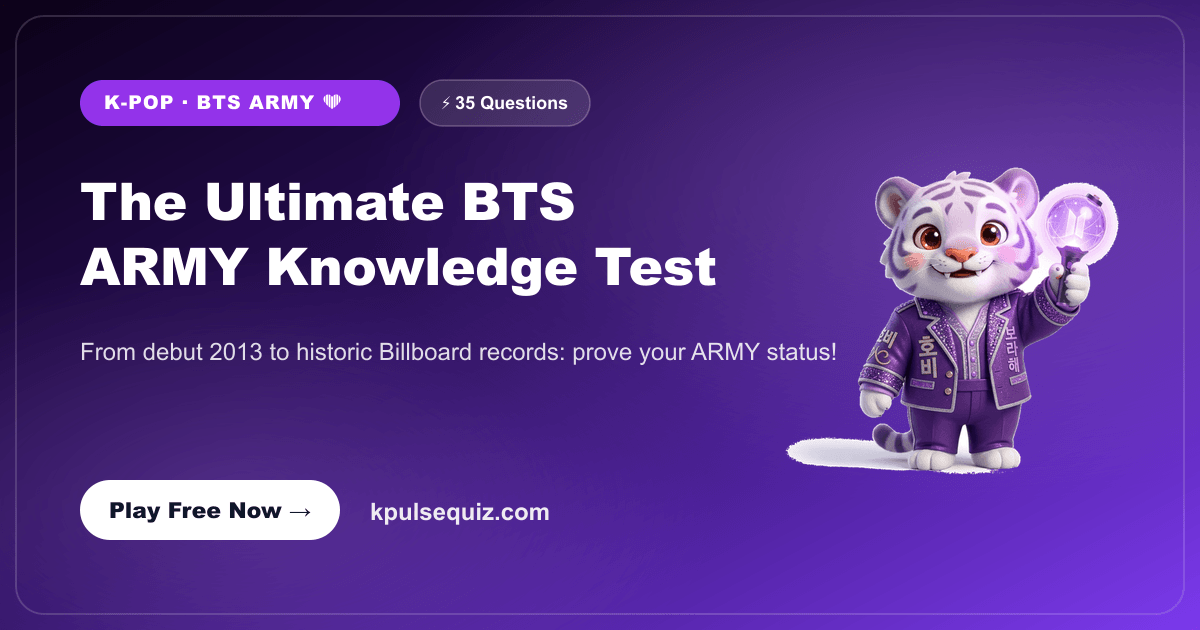
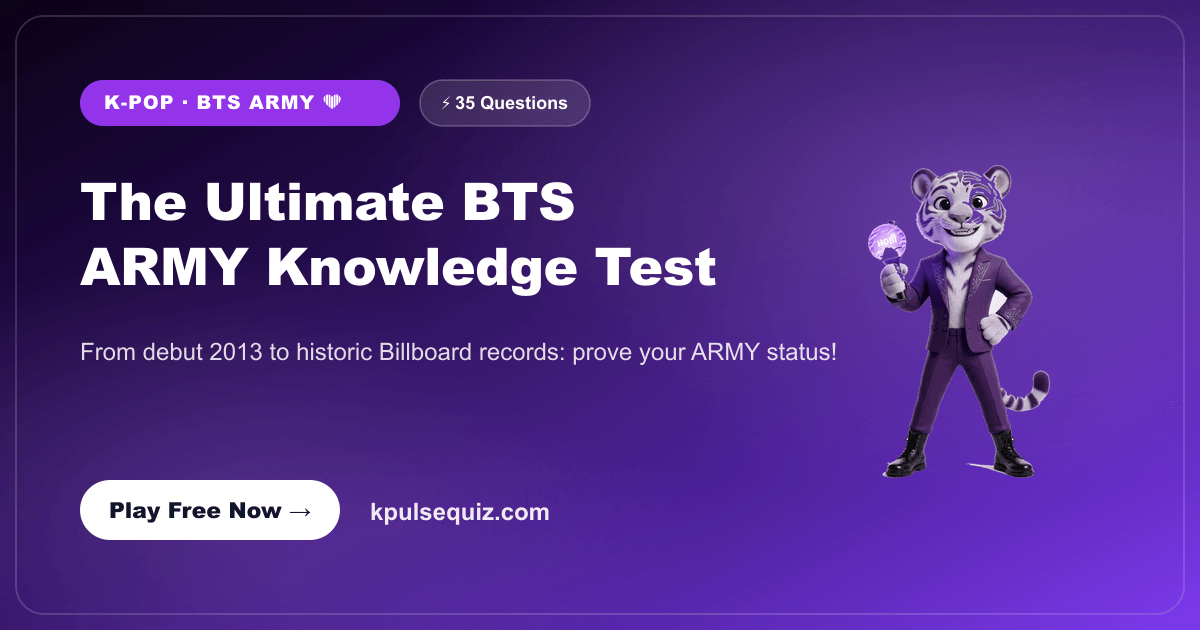
feat(mascot): upgrade Hobi (BTS, SKZ) to slender athletic idol proportions and add v2 cache-busting

Changed region(s): [[0.6475, 0.2413, 0.9558, 0.754]]

diff --git a/scripts/process-mascots.js b/scripts/process-mascots.js
@@ -12,14 +12,17 @@ const IMAGES = [
     src: 'C:/Users/USER/.gemini/antigravity/brain/b1576419-706f-4a54-8d0c-3708533ac48a/bomi_sister_cute_beret_1791419497211.jpg',
     name: 'bomi-blackpink',
     clearTop: 102, // Clear floating text header
+    threshold: 240,
   },
   {
-    src: 'C:/Users/USER/.gemini/antigravity/brain/b1576419-706f-4a54-8d0c-3708533ac48a/hobi_bts_1791417580092.jpg',
+    src: 'C:/Users/USER/.gemini/antigravity/brain/b1576419-706f-4a54-8d0c-3708533ac48a/hobi_bts_slender_cub_1791431351811.jpg',
     name: 'hobi-bts',
+    threshold: 205,
   },
   {
-    src: 'C:/Users/USER/.gemini/antigravity/brain/b1576419-706f-4a54-8d0c-3708533ac48a/hobi_skz_1791417598666.jpg',
+    src: 'C:/Users/USER/.gemini/antigravity/brain/b1576419-706f-4a54-8d0c-3708533ac48a/hobi_skz_slender_cub_1791431374044.jpg',
     name: 'hobi-skz',
+    threshold: 205,
   },
 ];
 
@@ -49,14 +52,14 @@ async function processImage(item) {
   // We can scan from outer edges to avoid removing whites inside the eyes/body
   const visited = new Uint8Array(width * height);
   const queue = [];
+  const threshold = item.threshold || 240;
 
   function isWhite(x, y) {
     const idx = (y * width + x) * channels;
     const r = data[idx];
     const g = data[idx + 1];
     const b = data[idx + 2];
-    // Background is very bright white
-    return r > 240 && g > 240 && b > 240;
+    return r >= threshold && g >= threshold && b >= threshold;
   }
 
   // Push border pixels
@@ -102,6 +105,8 @@ async function processImage(item) {
   const outBuffer = Buffer.from(data);
   const webpPath = path.join(TARGET_DIR, `${item.name}.webp`);
   const pngPath = path.join(TARGET_DIR, `${item.name}.png`);
+  const webpV2Path = path.join(TARGET_DIR, `${item.name}-v2.webp`);
+  const pngV2Path = path.join(TARGET_DIR, `${item.name}-v2.png`);
 
   await sharp(outBuffer, { raw: { width, height, channels } })
     .resize(512, 512, { fit: 'inside' })
@@ -110,8 +115,18 @@ async function processImage(item) {
 
   await sharp(outBuffer, { raw: { width, height, channels } })
     .resize(512, 512, { fit: 'inside' })
+    .webp({ quality: 90 })
+    .toFile(webpV2Path);
+
+  await sharp(outBuffer, { raw: { width, height, channels } })
+    .resize(512, 512, { fit: 'inside' })
     .png({ quality: 90 })
     .toFile(pngPath);
+
+  await sharp(outBuffer, { raw: { width, height, channels } })
+    .resize(512, 512, { fit: 'inside' })
+    .png({ quality: 90 })
+    .toFile(pngV2Path);
 
   console.log(`Processed ${item.name} -> ${webpPath} (${fs.statSync(webpPath).size} bytes)`);
 }

diff --git a/src/lib/mascot.ts b/src/lib/mascot.ts
@@ -24,7 +24,7 @@ export function getQuizMascot(slug?: string, tag?: string): QuizMascot {
     return {
       name: 'Bomi',
       nameKo: '봄이 🌸',
-      avatarUrl: '/images/mascot/bomi-blackpink.webp',
+      avatarUrl: '/images/mascot/bomi-blackpink-v2.webp',
       gender: 'female',
       badgeTitle: '마스코트 봄이 🌸',
       greetingKo: '블링크 전담 마스코트 봄이가 함께해요! 🖤💖',
@@ -44,7 +44,7 @@ export function getQuizMascot(slug?: string, tag?: string): QuizMascot {
     return {
       name: 'Hobi',
       nameKo: '호비 🐯',
-      avatarUrl: '/images/mascot/hobi-bts.webp',
+      avatarUrl: '/images/mascot/hobi-bts-v2.webp',
       gender: 'male',
       badgeTitle: '아미 호비 💜',
       greetingKo: '아미밤을 든 호비와 함께 보라빛 퀴즈 도전! 💜',
@@ -69,7 +69,7 @@ export function getQuizMascot(slug?: string, tag?: string): QuizMascot {
     return {
       name: 'Hobi',
       nameKo: '호비 🐺',
-      avatarUrl: '/images/mascot/hobi-skz.webp',
+      avatarUrl: '/images/mascot/hobi-skz-v2.webp',
       gender: 'male',
       badgeTitle: '스테이 호비 🐺',
       greetingKo: '나침봉을 든 호비와 함께 5성급 스테이 도전! 🐺',
